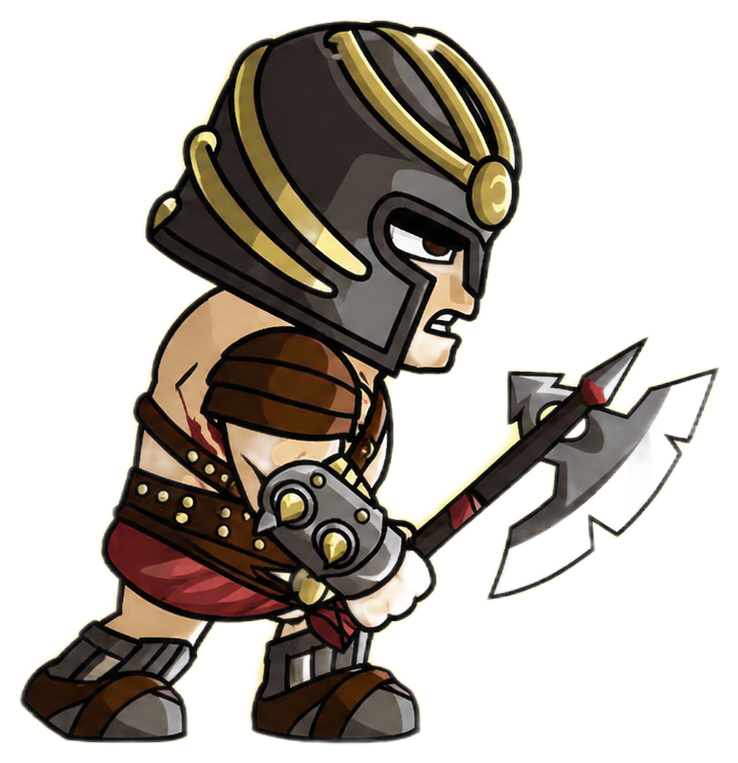
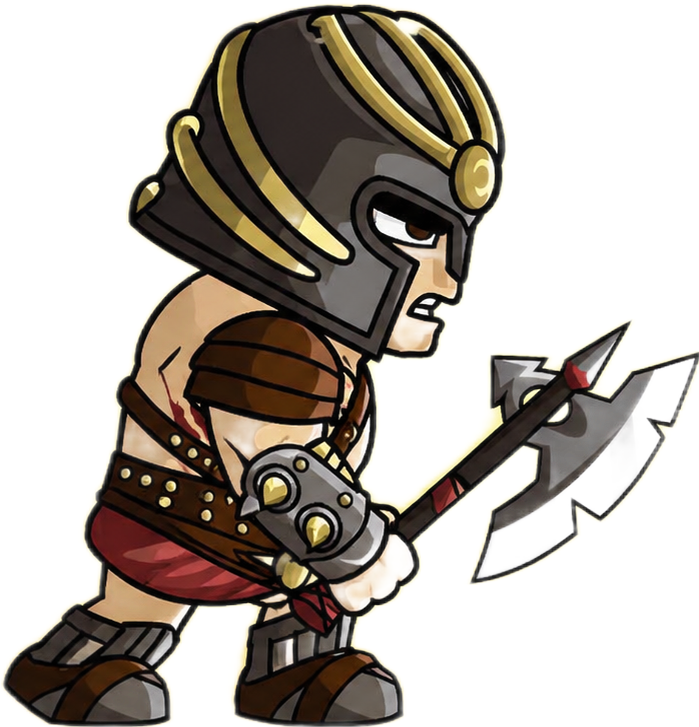
Use cropped gladiator PNG (699x727), adjust dimensions
No transparent padding - character fills the full image now.
GLADIATOR_HEIGHT=80, GENERIC_SCALE=0.70

Changed region(s): [[0.0, 0.0, 1.0, 1.0]]

diff --git a/apps/frontend/src/components/Arena/RobotSVG.tsx b/apps/frontend/src/components/Arena/RobotSVG.tsx
@@ -20,11 +20,11 @@ const SKIN_COLORS: Record<SkinId, { primary: string; secondary: string; accent: 
 }
 
 const GL = '#f1cf68'
-const GLADIATOR_SOURCE_WIDTH = 738
-const GLADIATOR_SOURCE_HEIGHT = 763
+const GLADIATOR_SOURCE_WIDTH = 699
+const GLADIATOR_SOURCE_HEIGHT = 727
 const PNG_RATIO = GLADIATOR_SOURCE_WIDTH / GLADIATOR_SOURCE_HEIGHT
-const GLADIATOR_SPRITE_HREF = '/skins/gladiator.png?v=4'
-const GLADIATOR_HEIGHT = 100
+const GLADIATOR_SPRITE_HREF = '/skins/gladiator.png?v=5'
+const GLADIATOR_HEIGHT = 80
 const GLADIATOR_WIDTH = Math.round(GLADIATOR_HEIGHT * PNG_RATIO)
 const GLADIATOR_X = -GLADIATOR_WIDTH / 2
 const GLADIATOR_Y = -GLADIATOR_HEIGHT
